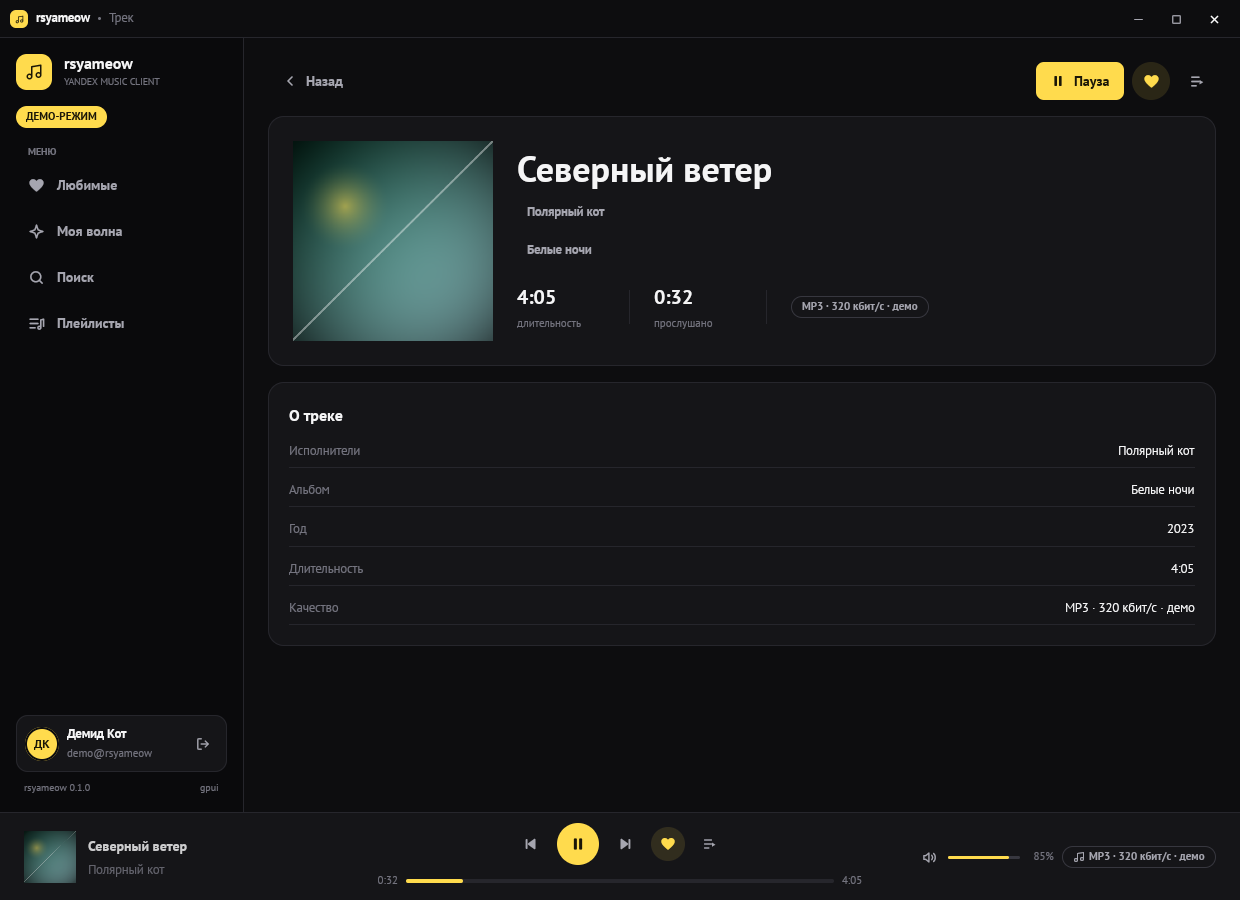
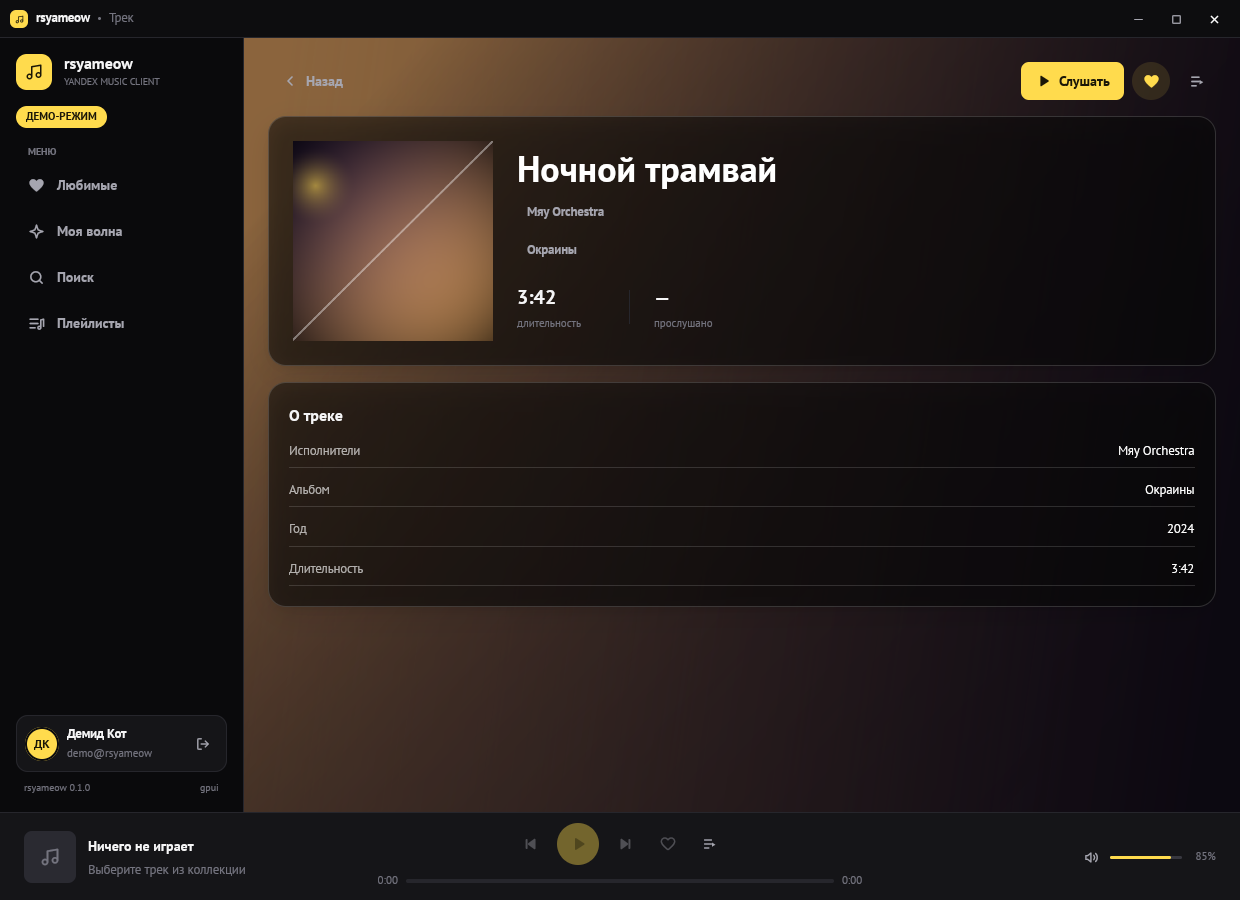
Refresh screenshots and document new navigation and wave UI

diff --git a/README.md b/README.md
@@ -29,14 +29,20 @@
 - **Поиск по каталогу.** Вкладки «Треки», «Исполнители» и «Альбомы»,
   пагинация и обложки. Клик по исполнителю открывает его страницу, по
   альбому — страницу альбома. В демо-режиме поиск работает локально.
-- **Страницы артиста и альбома.** Обложка, жанры и счётчики артиста, лента
-  треков и сетка альбомов; страница альбома с треками, годом, длительностью и
-  переходом к артисту. Навигация «назад» возвращает на предыдущий экран.
-- **Страница трека.** Открывается кликом по текущему треку в плеере: обложка,
-  исполнители и альбом со ссылками, качество, длительность и позиция.
-- **Моя волна.** Персональный поток `user:onyourwave`: загрузка партии,
-  воспроизведение, перемешивание и автоматическая догрузка следующей партии,
-  когда очередь заканчивается.
+- **Страницы артиста и альбома.** Обложка, жанры и счётчики артиста; на
+  странице артиста видны первые 10 треков и горизонтальная лента из 10 альбомов.
+  Футеры «Все треки» и «Все альбомы» открывают отдельные вкладки с полной
+  дискографией. Страница альбома — треки, год, длительность и переход к
+  артисту. Навигация «назад» возвращает на предыдущий экран.
+- **Страница трека.** Открывается кликом по текущему треку в плеере или по
+  названию в любом списке (без запуска воспроизведения): обложка, исполнители
+  и альбом со ссылками, качество, длительность и позиция. Фон — переливающийся
+  градиент из цветов обложки с размытой подложкой; карточки данных полупрозрачные
+  с димом. Для треков без обложки используется жёлтая палитра Яндекса.
+- **Моя волна.** Персональный поток `user:onyourwave`: полноэкранный постер
+  текущего трека с крупной обложкой, переключением, лайком и прогрессом.
+  Описание и список очереди скрыты. Следующая партия догружается автоматически,
+  а уже знакомые треки отфильтровываются, чтобы очередь не ломалась.
 - **Случайный трек.** Кнопка выбирает случайную композицию из «Мне нравится»,
   получает подписанный файл (FLAC, если доступен, иначе MP3) и запускает
   воспроизведение.
@@ -44,10 +50,14 @@
   через подписанный `/get-file-info` (`flac-mp4`) и автоматически откатывается
   на MP3, если FLAC нет или подписка не позволяет. Качество видно в плеере.
 - **Плеер.** Обложка, название, исполнитель, прогресс, пауза/продолжение,
-  предыдущий и следующий трек, перемотка кликом по полосе прогресса, громкость
-  и мьют, лайк и кнопка очереди. Клик по треку открывает его страницу.
-  По окончании трека включается следующий. Аудио выводится через
+  предыдущий и следующий трек, перемотка и громкость перетаскиванием, мьют,
+  лайк и кнопка очереди. Клик по треку открывает его страницу. При выборе
+  другого трека предыдущий сразу останавливается, даже если новый ещё
+  загружается. По окончании трека включается следующий. Аудио выводится через
   [rodio](https://github.com/RustAudio/rodio).
+- **Списки треков.** Название открывает страницу трека, имя исполнителя —
+  страницу артиста. У текущего трека вместо номера анимированный эквалайзер;
+  при наведении на строку слева появляется кнопка Play.
 - **Демо-режим.** Полноценный интерфейс с вымышленными треками, обложками и
   симуляцией воспроизведения — без сети и токена. Удобно для скриншотов и
   разработки UI.
@@ -56,8 +66,8 @@
   перетаскиванием за края и углы. Работает и в Wayland-композиторах без
   серверных декораций.
 - **Сохранение состояния.** При следующем запуске восстанавливаются экран
-  (включая страницы артиста/альбома/трека/плейлиста), поисковый запрос, очередь,
-  текущий трек и позиция. Трек восстанавливается на паузе и загружается по
+  (включая страницы артиста/альбома/трека/плейлиста и выбранный трек),
+  поисковый запрос, очередь, текущий трек и позиция. Трек восстанавливается на паузе и загружается по
   кнопке Play. Состояние хранится в `state.json` с правами `0600`.
 - **Адаптивное окно.** Раскладка перестраивается при изменении размера
   (карточки аккаунта и подписки становятся одноколоночными), а размер окна
@@ -84,7 +94,12 @@
 </p>
 
 <p>
-  <img src="docs/screenshots/track.png" width="49%" alt="Страница трека">
+  <img src="docs/screenshots/artist-tracks.png" width="49%" alt="Все треки артиста">
+  <img src="docs/screenshots/artist-albums.png" width="49%" alt="Все альбомы артиста">
+</p>
+
+<p>
+  <img src="docs/screenshots/track.png" width="49%" alt="Страница трека с градиентом">
   <img src="docs/screenshots/queue.png" width="49%" alt="Очередь воспроизведения">
 </p>
 
@@ -265,17 +280,21 @@ cargo fmt --all --check
 - Очередь последовательная: «Перемешать» выбирает случайный стартовый трек,
   но дальше воспроизведение идёт по порядку плейлиста. Для очередей длиннее
   40 треков панель показывает окно вокруг текущего.
-- «Моя волна» не отправляет лайки/дизлайки и не настраивает настроение или
-  энергию; догрузка идёт по последнему треку очереди.
-- На странице артиста показываются первые 50 треков и 50 альбомов; отдельной
-  пагинации нет. Альбом загружается целиком.
-- На странице трека нет текста песни, клипа и похожих треков.
+- «Моя волна» не отправляет дизлайки и не настраивает настроение или энергию;
+  догрузка идёт по последнему треку скрытой очереди. Уже знакомые треки при
+  догрузке отбрасываются, поэтому при пустой выдаче волна может остановиться.
+- На странице артиста показываются первые 10 треков и 10 альбомов, а вкладки
+  «Все треки»/«Все альбомы» догружают до 1000 записей; более длинную
+  дискографию API приходится листать вручную за пределами клиента.
+- На странице трека нет текста песни, клипа и похожих треков. Градиент
+  считается по обложке; для однотонных обложек используется жёлтый акцент,
+  а размытие подложки — программное, без backdrop-filter.
 - В плейлисте отображаются первые 50–100 треков (столько отдаёт API за один
   запрос); пагинация плейлиста пока не сделана.
 - Во вкладке «Любимые» показываются 24 последних трека, хотя счётчик отражает
   всю коллекцию.
-- Состояние сохраняет экран, очередь и позицию, но не позицию прокрутки и не
-  результаты поиска до повторного запроса.
+- Состояние сохраняет экран, выбранный трек, очередь и позицию, но не позицию
+  прокрутки; результаты поиска загружаются заново после запроса.
 - Текстовое поле поддерживает набор, Backspace, Enter и вставку, но не IME и не
   выделение мышью — этого достаточно для токена и поискового запроса.
 - Токен не обновляется автоматически; при истечении нужно войти заново.
